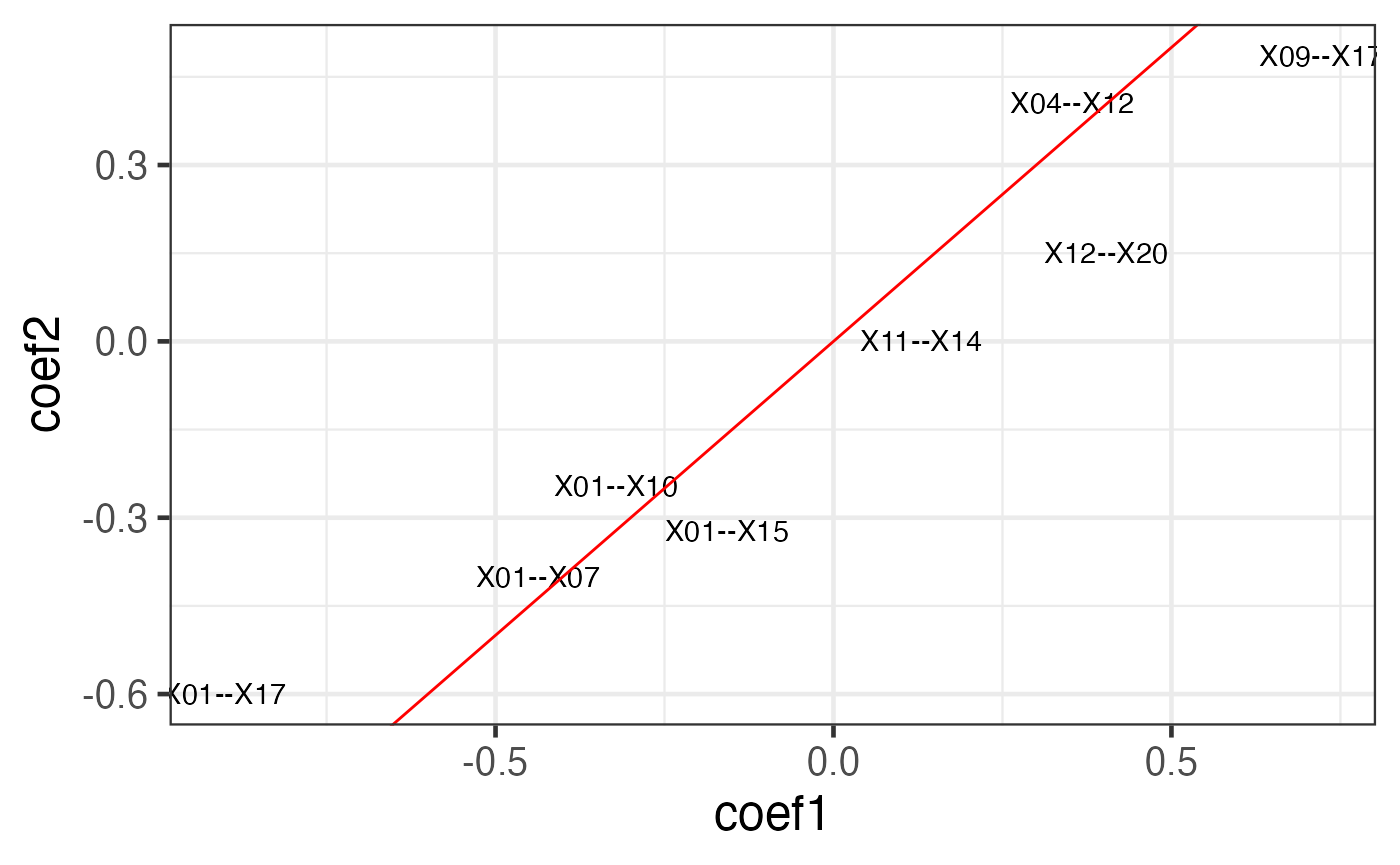
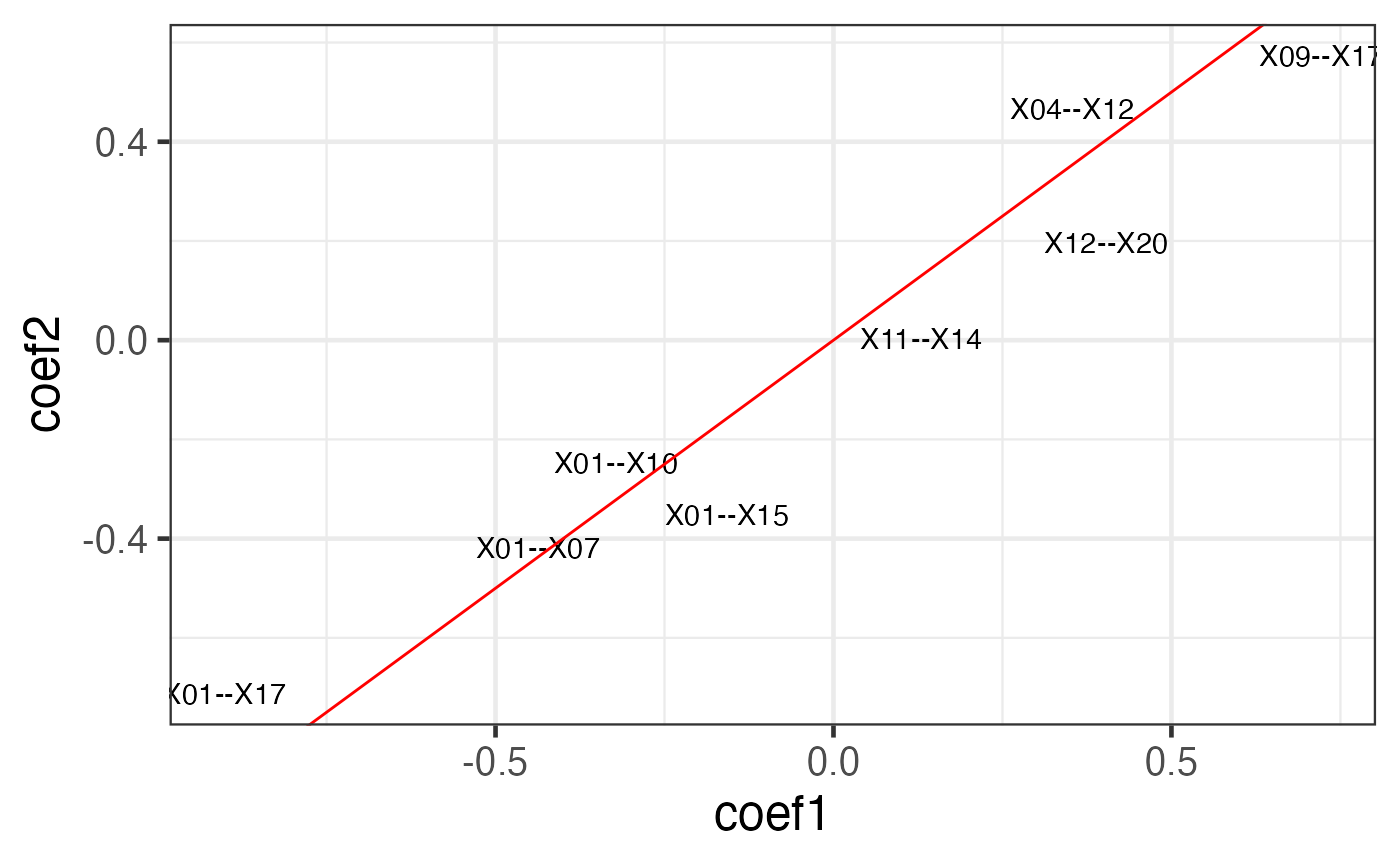
Built site for CPOP: 0.0.24@4e474d3

diff --git a/articles/CPOP.html b/articles/CPOP.html
@@ -97,10 +97,26 @@
 <li><p>The candidate features in Step 3 are reduced to only those features with consistent effect sizes across multiple datasets.</p></li>
 <li><p>The final selected features serve as the markers used for final model construction. Visualisation methods are provided.</p></li>
 </ol>
+<p>Some of the main differences between the CPOP method and other existing methods:</p>
+<ol style="list-style-type: decimal">
+<li>CPOP typically uses <strong>two training data</strong> in the training steps. This is because the original motivation of CPOP is to find predictive features across different platforms. As such, having two training data of difference sources helps to recreate a practical situation where the validation data is independent of the training data.</li>
+</ol>
+<p>In the past, CPOP was applied to datasets of the same disease by generated on different platforms (e.g. microarrays/RNA-Seq/targeted assays). However, this concept of finding common predictive features across multiple input data can be extended to other situations (e.g. multiple studies/batches).</p>
+<ol start="2" style="list-style-type: decimal">
+<li>CPOP uses pairwise differences between columns as features. This means that we have an input data, <code>x</code> for a predictive problem, CPOP will first construct a matrix, <code>z</code>, where each column of <code>z</code> is the difference between different columns of <code>x</code>, i.e. <code>z1 = x1 - x2</code>, <code>z2 = x1 - x3</code> and so on.</li>
+</ol>
+<p>This use of features in model construction is unlike most machine learning methods out there which uses <code>x</code> directly. This is because in most omics data, the values of <code>x</code> are typically dependent on study conditions, e.g. platform/cohort/technicians. Through experimentation, we found that the columns of <code>z</code> is likely to be better preserved across these conditions. This stability is important for reproducibility and consistency in prediction values between different datasets.</p>
+<ol start="3" style="list-style-type: decimal">
+<li>CPOP is not intended to be used for high dimensional data (say, number of original features greater than 1000). This is because CPOP was designed as a method for clinical validation of biomarkers going towards translation/implementation work. At these stages, much of the research discovery work has already been done and a smaller set of omics features (e.g. genes) has already been curated. CPOP was designed to work with this smaller set of candidate biomarkers in order to produce predictions of higher clinical relevance and utility.</li>
+</ol>
+<p>Users of CPOP are welcome to reduce their larger candidate set of features down to an appropriate size (typically, CPOP accepts features in the hundreds) through whichever appropriate method (e.g. features-wise univariate t-test).</p>
 </div>
 <div class="section level2">
-<h2 id="step-1-and-2-data-selection-and-pre-processing">Step 1 and 2: data selection and pre-processing<a class="anchor" aria-label="anchor" href="#step-1-and-2-data-selection-and-pre-processing"></a>
+<h2 id="running-cpop">Running CPOP<a class="anchor" aria-label="anchor" href="#running-cpop"></a>
 </h2>
+<div class="section level3">
+<h3 id="step-1-and-2---data-selection-and-pre-processing">Step 1 and 2 - data selection and pre-processing<a class="anchor" aria-label="anchor" href="#step-1-and-2---data-selection-and-pre-processing"></a>
+</h3>
 <p>The CPOP package provides an example data, <code>cpop_data_binary</code>, to demonstrate how the various functions can be run.</p>
 <p><code>cpop_data_binary</code> contains a list of 7 objects:</p>
 <ul>
@@ -133,9 +149,9 @@
 <span class="fu"><a href="https://rdrr.io/r/graphics/boxplot.html" class="external-link">boxplot</a></span><span class="op">(</span><span class="fu"><a href="https://rdrr.io/r/base/cbind.html" class="external-link">cbind</a></span><span class="op">(</span><span class="va">x1</span>,<span class="va">x2</span><span class="op">)</span><span class="op">)</span></code></pre></div>
 <p><img src="CPOP_files/figure-html/unnamed-chunk-2-1.png" width="700"></p>
 </div>
-<div class="section level2">
-<h2 id="step-3-and-4-feature-selection">Step 3 and 4: feature selection<a class="anchor" aria-label="anchor" href="#step-3-and-4-feature-selection"></a>
-</h2>
+<div class="section level3">
+<h3 id="step-3-and-4-feature-selection">Step 3 and 4: feature selection<a class="anchor" aria-label="anchor" href="#step-3-and-4-feature-selection"></a>
+</h3>
 <p>The <code>cpop_model</code> function is the main function of the CPOP package. The first four inputs are <code>z1</code>, <code>z2</code>, <code>y1</code> and <code>y2</code>, where <code>(z1, y1)</code> and <code>(z2, y2)</code> are the log-ratio matrix and the response variable of the first and second data, respectively. In this particular example, the response variable is binary, hence, we can also specify <code>family = "binomial"</code> (default) for this model.</p>
 <p>The <code>alpha</code> parameter is one of the penalty terms of the classic Elastic Net model, where <code>alpha = 1</code> corresponds to a Lasso model and <code>alpha = 0</code> corresponds to a Ridge model. The <code>cpop_model</code> uses <code><a href="https://glmnet.stanford.edu/reference/cv.glmnet.html" class="external-link">glmnet::cv.glmnet</a></code> in the backend, and so the penalty term <code>lambda</code> is automatically chosen using the default of <code>lambda.min</code>.</p>
 <p>The CPOP model iteratively selects features based on the fit of the model or, if it reaches a pre-determined number of features with the paramter <code>n_features</code> being the main control for this. Here, we arbitary set this to a small number of 10 for illustration.</p>
@@ -178,9 +194,9 @@
 <span class="co">##   0   0 0 0</span>
 <span class="co">##   1   0 0 0</span></code></pre>
 </div>
-<div class="section level2">
-<h2 id="step-5-visualisation">Step 5: visualisation<a class="anchor" aria-label="anchor" href="#step-5-visualisation"></a>
-</h2>
+<div class="section level3">
+<h3 id="step-5-visualisation">Step 5: visualisation<a class="anchor" aria-label="anchor" href="#step-5-visualisation"></a>
+</h3>
 <p>The output of the <code>cpop_model</code> function is a <code>cpop</code> object with its own defined methods.</p>
 <p>The main method for a <code>cpop</code> object is the <code>plot_cpop</code> function, which produces several useful plot to understand what the CPOP methodology has done or performed.</p>
 <div class="sourceCode" id="cb28"><pre class="downlit sourceCode r">
@@ -196,14 +212,14 @@
 <span class="co">## <span style="color: #949494;"># A tibble: 8 × 3</span></span>
 <span class="co">##   coef_name  coef1    coef2</span>
 <span class="co">##   <span style="color: #949494; font-style: italic;">&lt;fct&gt;</span>      <span style="color: #949494; font-style: italic;">&lt;dbl&gt;</span>    <span style="color: #949494; font-style: italic;">&lt;dbl&gt;</span></span>
-<span class="co">## <span style="color: #BCBCBC;">1</span> X01--X10  -<span style="color: #BB0000;">0.322</span> -<span style="color: #BB0000;">0.245</span>  </span>
-<span class="co">## <span style="color: #BCBCBC;">2</span> X09--X17   0.722  0.486  </span>
-<span class="co">## <span style="color: #BCBCBC;">3</span> X11--X14   0.130  0.001<span style="text-decoration: underline;">58</span></span>
-<span class="co">## <span style="color: #BCBCBC;">4</span> X12--X20   0.404  0.152  </span>
-<span class="co">## <span style="color: #BCBCBC;">5</span> X01--X07  -<span style="color: #BB0000;">0.437</span> -<span style="color: #BB0000;">0.400</span>  </span>
-<span class="co">## <span style="color: #BCBCBC;">6</span> X01--X15  -<span style="color: #BB0000;">0.158</span> -<span style="color: #BB0000;">0.322</span>  </span>
-<span class="co">## <span style="color: #BCBCBC;">7</span> X01--X17  -<span style="color: #BB0000;">0.901</span> -<span style="color: #BB0000;">0.599</span>  </span>
-<span class="co">## <span style="color: #BCBCBC;">8</span> X04--X12   0.353  0.406</span></code></pre>
+<span class="co">## <span style="color: #BCBCBC;">1</span> X01--X10  -<span style="color: #BB0000;">0.322</span> -<span style="color: #BB0000;">0.246</span>  </span>
+<span class="co">## <span style="color: #BCBCBC;">2</span> X09--X17   0.722  0.573  </span>
+<span class="co">## <span style="color: #BCBCBC;">3</span> X11--X14   0.130  0.004<span style="text-decoration: underline;">30</span></span>
+<span class="co">## <span style="color: #BCBCBC;">4</span> X12--X20   0.404  0.196  </span>
+<span class="co">## <span style="color: #BCBCBC;">5</span> X01--X07  -<span style="color: #BB0000;">0.437</span> -<span style="color: #BB0000;">0.418</span>  </span>
+<span class="co">## <span style="color: #BCBCBC;">6</span> X01--X15  -<span style="color: #BB0000;">0.158</span> -<span style="color: #BB0000;">0.351</span>  </span>
+<span class="co">## <span style="color: #BCBCBC;">7</span> X01--X17  -<span style="color: #BB0000;">0.901</span> -<span style="color: #BB0000;">0.713</span>  </span>
+<span class="co">## <span style="color: #BCBCBC;">8</span> X04--X12   0.353  0.467</span></code></pre>
 <p>We can see that most of the selected features had similar coefficients across the two data. This is exactly what CPOP is aiming to achieve: selecting features that are consistent within each datasets.</p>
 <p>However, each of the feature (e.g. <code>X01--X10</code>) actually corresponds to two of the original features in the raw data <code>X01</code> and <code>X10</code> in the data <code>x1</code> and <code>x2</code>. We can further visualise these features in the original features.</p>
 <div class="sourceCode" id="cb33"><pre class="downlit sourceCode r">
@@ -215,19 +231,19 @@
 <span class="co">## <span style="color: #949494;"># A tibble: 8 × 7</span></span>
 <span class="co">##   from  to     coef1    coef2 coef_avg coef_abs sign_coef1</span>
 <span class="co">##   <span style="color: #949494; font-style: italic;">&lt;chr&gt;</span> <span style="color: #949494; font-style: italic;">&lt;chr&gt;</span>  <span style="color: #949494; font-style: italic;">&lt;dbl&gt;</span>    <span style="color: #949494; font-style: italic;">&lt;dbl&gt;</span>    <span style="color: #949494; font-style: italic;">&lt;dbl&gt;</span>    <span style="color: #949494; font-style: italic;">&lt;dbl&gt;</span> <span style="color: #949494; font-style: italic;">&lt;chr&gt;</span>     </span>
-<span class="co">## <span style="color: #BCBCBC;">1</span> X01   X10   -<span style="color: #BB0000;">0.322</span> -<span style="color: #BB0000;">0.245</span>    -<span style="color: #BB0000;">0.284</span>    0.284  Negative  </span>
-<span class="co">## <span style="color: #BCBCBC;">2</span> X09   X17    0.722  0.486     0.604    0.604  Positive  </span>
-<span class="co">## <span style="color: #BCBCBC;">3</span> X11   X14    0.130  0.001<span style="text-decoration: underline;">58</span>   0.066<span style="text-decoration: underline;">0</span>   0.066<span style="text-decoration: underline;">0</span> Positive  </span>
-<span class="co">## <span style="color: #BCBCBC;">4</span> X12   X20    0.404  0.152     0.278    0.278  Positive  </span>
-<span class="co">## <span style="color: #BCBCBC;">5</span> X01   X07   -<span style="color: #BB0000;">0.437</span> -<span style="color: #BB0000;">0.400</span>    -<span style="color: #BB0000;">0.419</span>    0.419  Negative  </span>
-<span class="co">## <span style="color: #BCBCBC;">6</span> X01   X15   -<span style="color: #BB0000;">0.158</span> -<span style="color: #BB0000;">0.322</span>    -<span style="color: #BB0000;">0.240</span>    0.240  Negative  </span>
-<span class="co">## <span style="color: #BCBCBC;">7</span> X01   X17   -<span style="color: #BB0000;">0.901</span> -<span style="color: #BB0000;">0.599</span>    -<span style="color: #BB0000;">0.750</span>    0.750  Negative  </span>
-<span class="co">## <span style="color: #BCBCBC;">8</span> X04   X12    0.353  0.406     0.379    0.379  Positive</span></code></pre>
+<span class="co">## <span style="color: #BCBCBC;">1</span> X01   X10   -<span style="color: #BB0000;">0.322</span> -<span style="color: #BB0000;">0.246</span>    -<span style="color: #BB0000;">0.284</span>    0.284  Negative  </span>
+<span class="co">## <span style="color: #BCBCBC;">2</span> X09   X17    0.722  0.573     0.647    0.647  Positive  </span>
+<span class="co">## <span style="color: #BCBCBC;">3</span> X11   X14    0.130  0.004<span style="text-decoration: underline;">30</span>   0.067<span style="text-decoration: underline;">3</span>   0.067<span style="text-decoration: underline;">3</span> Positive  </span>
+<span class="co">## <span style="color: #BCBCBC;">4</span> X12   X20    0.404  0.196     0.300    0.300  Positive  </span>
+<span class="co">## <span style="color: #BCBCBC;">5</span> X01   X07   -<span style="color: #BB0000;">0.437</span> -<span style="color: #BB0000;">0.418</span>    -<span style="color: #BB0000;">0.428</span>    0.428  Negative  </span>
+<span class="co">## <span style="color: #BCBCBC;">6</span> X01   X15   -<span style="color: #BB0000;">0.158</span> -<span style="color: #BB0000;">0.351</span>    -<span style="color: #BB0000;">0.254</span>    0.254  Negative  </span>
+<span class="co">## <span style="color: #BCBCBC;">7</span> X01   X17   -<span style="color: #BB0000;">0.901</span> -<span style="color: #BB0000;">0.713</span>    -<span style="color: #BB0000;">0.807</span>    0.807  Negative  </span>
+<span class="co">## <span style="color: #BCBCBC;">8</span> X04   X12    0.353  0.467     0.410    0.410  Positive</span></code></pre>
 <p>Here we see that despite the features that we have selected in terms of the ratio, in actual fact, only a handful of features are useful. In particular, <code>X01</code>, <code>X09</code> and <code>X17</code> are the main contributors.</p>
 </div>
-<div class="section level2">
-<h2 id="predictions">Predictions<a class="anchor" aria-label="anchor" href="#predictions"></a>
-</h2>
+<div class="section level3">
+<h3 id="predictions">Predictions<a class="anchor" aria-label="anchor" href="#predictions"></a>
+</h3>
 <p>Another useful method on the <code>cpop</code> object is the <code>predict_cpop</code> function. This function takes the previous CPOP result and a new (log-)ratio matrix to produce predictions.</p>
 <p>The first column of the output are the sample IDs. The second and third column are prediction results from data1 and data2 respectively. Since we have done the previous diagnostic test that the coefficient size between the two data are very similar, we do expect that these values to be very highly correlated. The last column is <code>cpop_model_avg</code>, which is a simple average between the two predicted values.</p>
 <p>Note that the predicted values here are on the logit scale (recall that we are performing a logistic regression on binary responses using the elastic net model in the background). We can also transform these values back to predicted probability scale using the <code><a href="../reference/logit-expit.html">CPOP::expit</a></code> function.</p>
@@ -236,12 +252,12 @@
 <pre><code><span class="co">## <span style="color: #949494;"># A tibble: 6 × 6</span></span>
 <span class="co">##   samples cpop_model1 cpop_model2 cpop_model_avg cpop_model_avg_prob</span>
 <span class="co">##   <span style="color: #949494; font-style: italic;">&lt;chr&gt;</span>         <span style="color: #949494; font-style: italic;">&lt;dbl&gt;</span>       <span style="color: #949494; font-style: italic;">&lt;dbl&gt;</span>          <span style="color: #949494; font-style: italic;">&lt;dbl&gt;</span>               <span style="color: #949494; font-style: italic;">&lt;dbl&gt;</span></span>
-<span class="co">## <span style="color: #BCBCBC;">1</span> 1             0.465       0.130          0.297               0.573</span>
-<span class="co">## <span style="color: #BCBCBC;">2</span> 2            -<span style="color: #BB0000;">1.79</span>       -<span style="color: #BB0000;">0.992</span>         -<span style="color: #BB0000;">1.39</span>                0.207</span>
-<span class="co">## <span style="color: #BCBCBC;">3</span> 3             0.853       0.575          0.714               0.671</span>
-<span class="co">## <span style="color: #BCBCBC;">4</span> 4            -<span style="color: #BB0000;">0.936</span>      -<span style="color: #BB0000;">0.709</span>         -<span style="color: #BB0000;">0.823</span>               0.306</span>
-<span class="co">## <span style="color: #BCBCBC;">5</span> 5            -<span style="color: #BB0000;">0.424</span>      -<span style="color: #BB0000;">0.640</span>         -<span style="color: #BB0000;">0.532</span>               0.370</span>
-<span class="co">## <span style="color: #BCBCBC;">6</span> 6             1.00        1.31           1.16                0.760</span>
+<span class="co">## <span style="color: #BCBCBC;">1</span> 1             0.465       0.182          0.324               0.580</span>
+<span class="co">## <span style="color: #BCBCBC;">2</span> 2            -<span style="color: #BB0000;">1.79</span>       -<span style="color: #BB0000;">1.16</span>          -<span style="color: #BB0000;">1.47</span>                0.191</span>
+<span class="co">## <span style="color: #BCBCBC;">3</span> 3             0.853       0.663          0.758               0.681</span>
+<span class="co">## <span style="color: #BCBCBC;">4</span> 4            -<span style="color: #BB0000;">0.936</span>      -<span style="color: #BB0000;">0.897</span>         -<span style="color: #BB0000;">0.916</span>               0.286</span>
+<span class="co">## <span style="color: #BCBCBC;">5</span> 5            -<span style="color: #BB0000;">0.424</span>      -<span style="color: #BB0000;">0.592</span>         -<span style="color: #BB0000;">0.508</span>               0.376</span>
+<span class="co">## <span style="color: #BCBCBC;">6</span> 6             1.00        1.42           1.21                0.769</span>
 <span class="co">## <span style="color: #949494;"># … with 1 more variable: cpop_model_avg_class &lt;chr&gt;</span></span></code></pre>
 <div class="sourceCode" id="cb38"><pre class="downlit sourceCode r">
 <code class="sourceCode R"><span class="va">predicted_plotdf</span> <span class="op">=</span> <span class="fu"><a href="../reference/predict_cpop.html">predict_cpop</a></span><span class="op">(</span><span class="va">cpop_result</span>, newz <span class="op">=</span> <span class="va">z3</span><span class="op">)</span> <span class="op"><a href="https://magrittr.tidyverse.org/reference/pipe.html" class="external-link">%&gt;%</a></span>
@@ -292,6 +308,7 @@
 <!-- ```{r} -->
 <!-- sessionInfo() -->
 <!-- ``` -->
+</div>
 </div>
   </div>
 

diff --git a/reference/cpop_network.html b/reference/cpop_network.html
@@ -74,9 +74,9 @@ using the `ggraph` package.</p></li>
 <span class="r-in"><span class="fu">plot_lratio_network</span><span class="op">(</span><span class="va">x</span>, type <span class="op">=</span> <span class="st">"ggraph"</span><span class="op">)</span></span>
 <span class="r-plt img"><img src="cpop_network-1.png" alt="" width="700" height="433"></span>
 <span class="r-in"><span class="fu">plot_lratio_network</span><span class="op">(</span><span class="va">x</span>, type <span class="op">=</span> <span class="st">"igraph"</span><span class="op">)</span></span>
-<span class="r-out co"><span class="r-pr">#&gt;</span> IGRAPH 4c2282a UN-- 10 9 -- </span>
+<span class="r-out co"><span class="r-pr">#&gt;</span> IGRAPH 7714c01 UN-- 10 9 -- </span>
 <span class="r-out co"><span class="r-pr">#&gt;</span> + attr: name (v/c)</span>
-<span class="r-out co"><span class="r-pr">#&gt;</span> + edges from 4c2282a (vertex names):</span>
+<span class="r-out co"><span class="r-pr">#&gt;</span> + edges from 7714c01 (vertex names):</span>
 <span class="r-out co"><span class="r-pr">#&gt;</span> [1] X1 --X10 X1 --X3  X1 --X4  X1 --X8  X1 --X9  X2 --X5  X2 --X7  X2 --X6 </span>
 <span class="r-out co"><span class="r-pr">#&gt;</span> [9] X10--X8 </span>
 <span class="r-in"><span class="fu">plot_lratio_network</span><span class="op">(</span><span class="va">x</span>, type <span class="op">=</span> <span class="st">"visNetwork"</span><span class="op">)</span></span>
